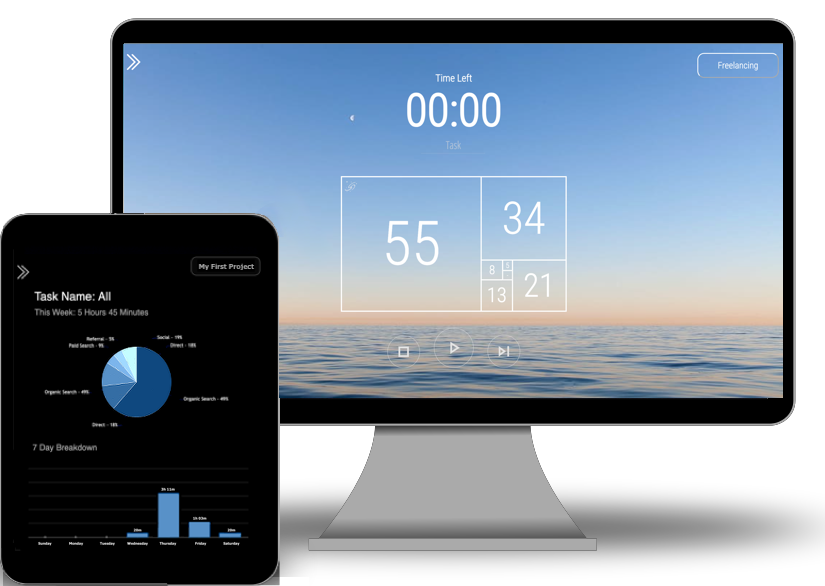
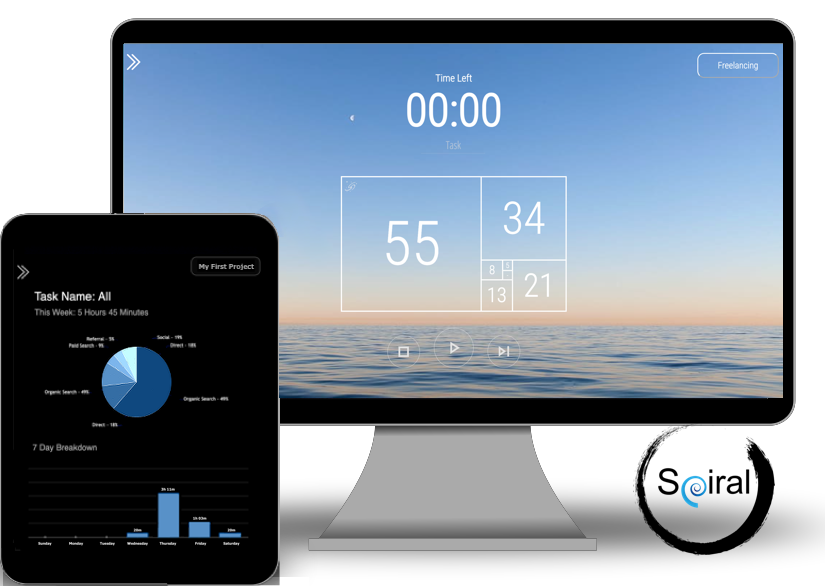
added a link to Spiral on mobile

Changed region(s): [[0.7576, 0.7372, 0.9394, 0.9522], [0.7879, 0.7372, 0.8182, 0.7679]]

diff --git a/index.html b/index.html
@@ -95,7 +95,7 @@
        <p> I started developing a fantasy sports company, which turned into a multi-year passion project. And needless to say, during that time I learned a lot. </p> 
        <p>Most importantly, I learned self reliance as a developer and gained a  ‘never say die’ attitude when it comes to fixing problems. </p>
        <p>I eventually switched from native Android to native IOS, and completed that project in Swift. </p> 
-       <p>More recently, I worked as a full stack web developer for <a href="https://www.dabblewriter.com" target="blank">Dabble</a>. And now I'm looking for a new opportunity where I can continue to exercise my creativity and learn skills related to building a SaaS startup.</p>
+       <p>More recently, I worked as a full stack web developer for <a href="https://www.dabblewriter.com" target="blank">Dabble</a>. And now I'm looking for a new opportunity where I can continue to stay remote, and work with a good group of people.</p>
        <p>Everything you see below is designed, wire-framed, and developed by yours truly.</p>
        <p>If you like my work, <a href="mailto:louismsankey@gmail.com" target="blank">Email Me</a></p>
 
@@ -160,12 +160,6 @@
                 <p>Darkhorse has up to the minute scoring and features similar to other venture backed DFS companies, all built with web scraping - a true hacker project! Live for 2020-2021 NBA basketball season</p>
 
 
-                <a target="_blank" href="https://gitfront.io/r/user-1890227/1b55cd9cf0b51cb629075ab9b689f4b082a46300/darkhorsedfs/tree/DarkhorseDFS/">Swift5 Client Code</a> 
-                <br>
-                <br>
-
-
-           
      
                 <a target="_blank" href="https://github.com/LouieSankey/Darkhorse_Google_Cloud_Functions">Typescript Serverless Backend Functions</a> 
                 <br>
@@ -248,7 +242,8 @@
                 <br>
                 <br>
 
-                <p>Code viewable upon request.</p>
+                <p>I also recently used Capacitor to turn this into a mobile app, which will soon be available for IOS and Android. You can download the IOS beta here:</p>
+                <a class="project-links" target="_blank" href="https://testflight.apple.com/join/0sAkgmv7">Live Site</a>
                 <br>
                 <br>
       
